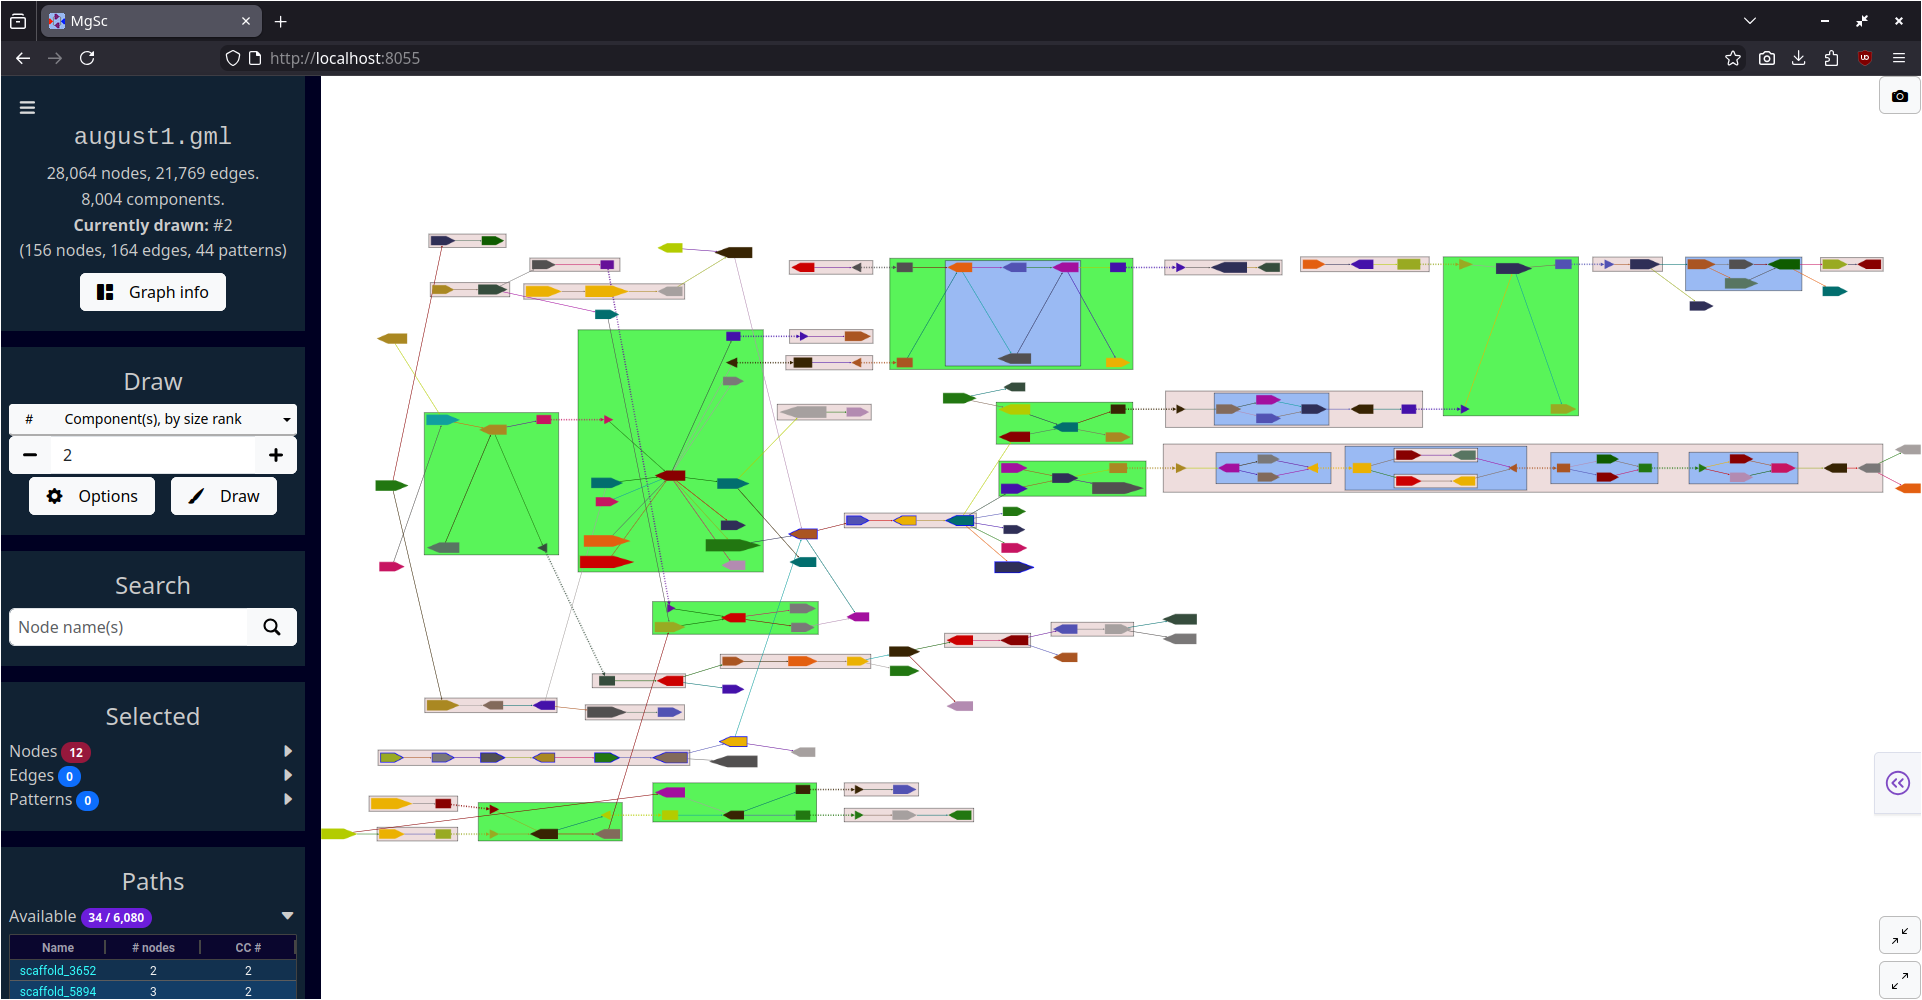
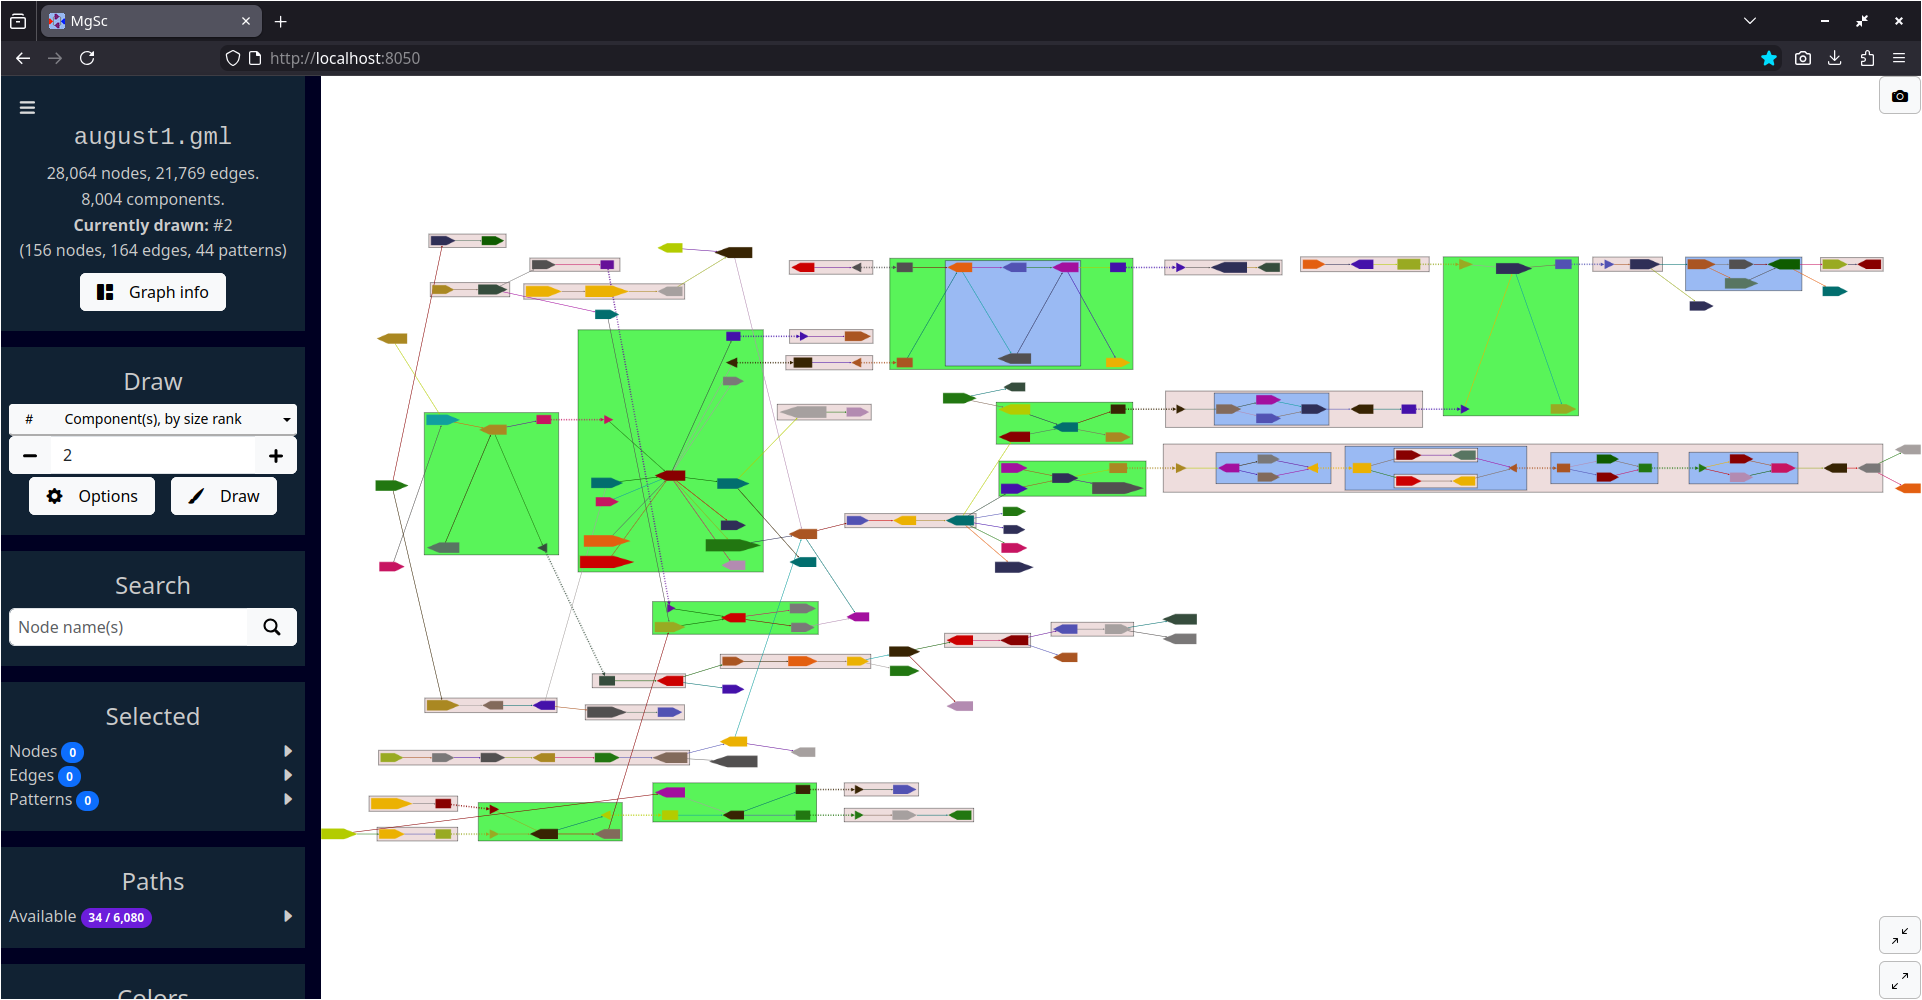
more screenshots, data srcs

diff --git a/README.md b/README.md
@@ -15,7 +15,12 @@ This version of the tool is still a work in progress; more to come soon.
 | Stool metagenome assembly ([MetaCarvel](https://github.com/marbl/MetaCarvel)) | Yeast genome assembly ([Flye](https://github.com/mikolmogorov/Flye)) |
 | ------------------------- | --------------------- |
 | ![Second-largest component in a metagenome assembly graph, showing various structural patterns.](https://raw.githubusercontent.com/marbl/MetagenomeScope/refs/heads/main/docs/res/screenshots/aug1cc2.png) | ![Part of a yeast genome assembly graph, showing the selection of a path of edges.](https://raw.githubusercontent.com/marbl/MetagenomeScope/refs/heads/main/docs/res/screenshots/flye_yeast.png) |
+| [`SRS049959`](https://www.ncbi.nlm.nih.gov/bioproject/?term=SRS049959) | [AGB's repository](https://github.com/almiheenko/AGB/tree/master/test_data/flye_yeast) |
 
+| Visualizing paths from an [AGP file](https://www.ncbi.nlm.nih.gov/genbank/genome_agp_specification/) | Summarizing the graph structure using a [treemap](https://en.wikipedia.org/wiki/Treemapping) |
+| ------------------------- | --------------------- |
+| ![Path of selected nodes in a metagenome assembly graph.](https://raw.githubusercontent.com/marbl/MetagenomeScope/refs/heads/main/docs/res/screenshots/aug1cc6_scaffold430.png) | ![Treemap showing the amount of nodes in each connected component in a metagenome assembly graph.](https://raw.githubusercontent.com/marbl/MetagenomeScope/refs/heads/main/docs/res/screenshots/aug1treemap.png) |
+| [`SRS049959`](https://www.ncbi.nlm.nih.gov/bioproject/?term=SRS049959) | [`SRS049959`](https://www.ncbi.nlm.nih.gov/bioproject/?term=SRS049959) |
 
 ## Installation
 
